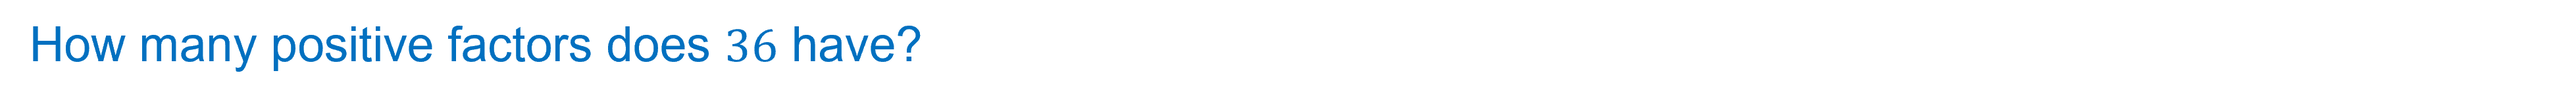
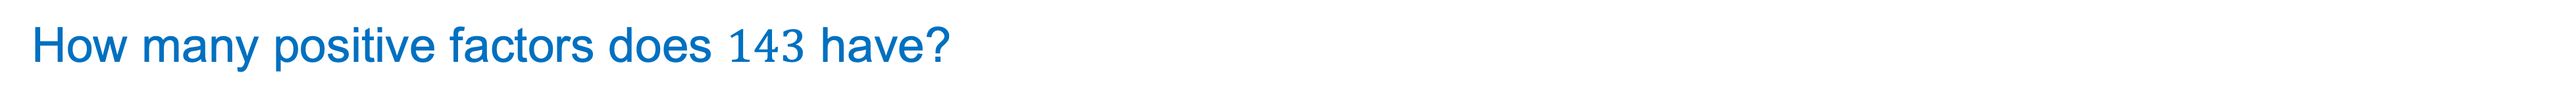
Updating admissions-tutorial-quiz-aut-2026

Changed region(s): [[0.0, 0.2581, 0.3744, 0.6968]]

diff --git a/pages/admissions-tutorial-quiz-aut-2026.md b/pages/admissions-tutorial-quiz-aut-2026.md
@@ -1,0 +1,66 @@
+# Admissions Tutorial Quiz Autumn 2025
+
+Answer as many questions as you can in 5 minutes.
+ 
+
+## 1.
+![](/resources/admissions-tutorial-quiz-aut-2026/q1.png){image align="center"}  
+::: problem id=1_1 marks=1
+
+<input type="number" solution="4"/>  
+ 
+---
+
+![](/resources/admissions-tutorial-quiz-aut-2026/s1.png){image align="center"}  
+::: 
+
+
+## 2.
+![](/resources/admissions-tutorial-quiz-aut-2026/q2.png){image align="center"}  
+::: problem id=2_1 marks=1
+
+<input type="number" solution="445"/>  
+ 
+---
+
+![](/resources/admissions-tutorial-quiz-aut-2026/s2.png){image align="center"}  
+::: 
+
+
+## 3.
+![](/resources/admissions-tutorial-quiz-aut-2026/q3.png){image align="center"}  
+::: problem id=3_1 marks=1
+
+<input type="number" solution="6"/>  
+ 
+---
+
+![](/resources/admissions-tutorial-quiz-aut-2026/s3.png){image align="center"}  
+::: 
+
+
+## 4.
+![](/resources/admissions-tutorial-quiz-aut-2026/q4.png){image align="center"}  
+::: problem id=4_1 marks=1
+
+<input type="number" solution="20"/>  
+ 
+---
+
+![](/resources/admissions-tutorial-quiz-aut-2026/s4.png){image align="center"}  
+::: 
+
+
+## 5.
+![](/resources/admissions-tutorial-quiz-aut-2026/q5.png){image align="center"}  
+::: problem id=5_1 marks=1
+
+<input type="number" solution="7"/>  
+ 
+---
+
+![](/resources/admissions-tutorial-quiz-aut-2026/s5.png){image align="center"}  
+::: 
+
+
+Do not Submit too early - use all the time.  
